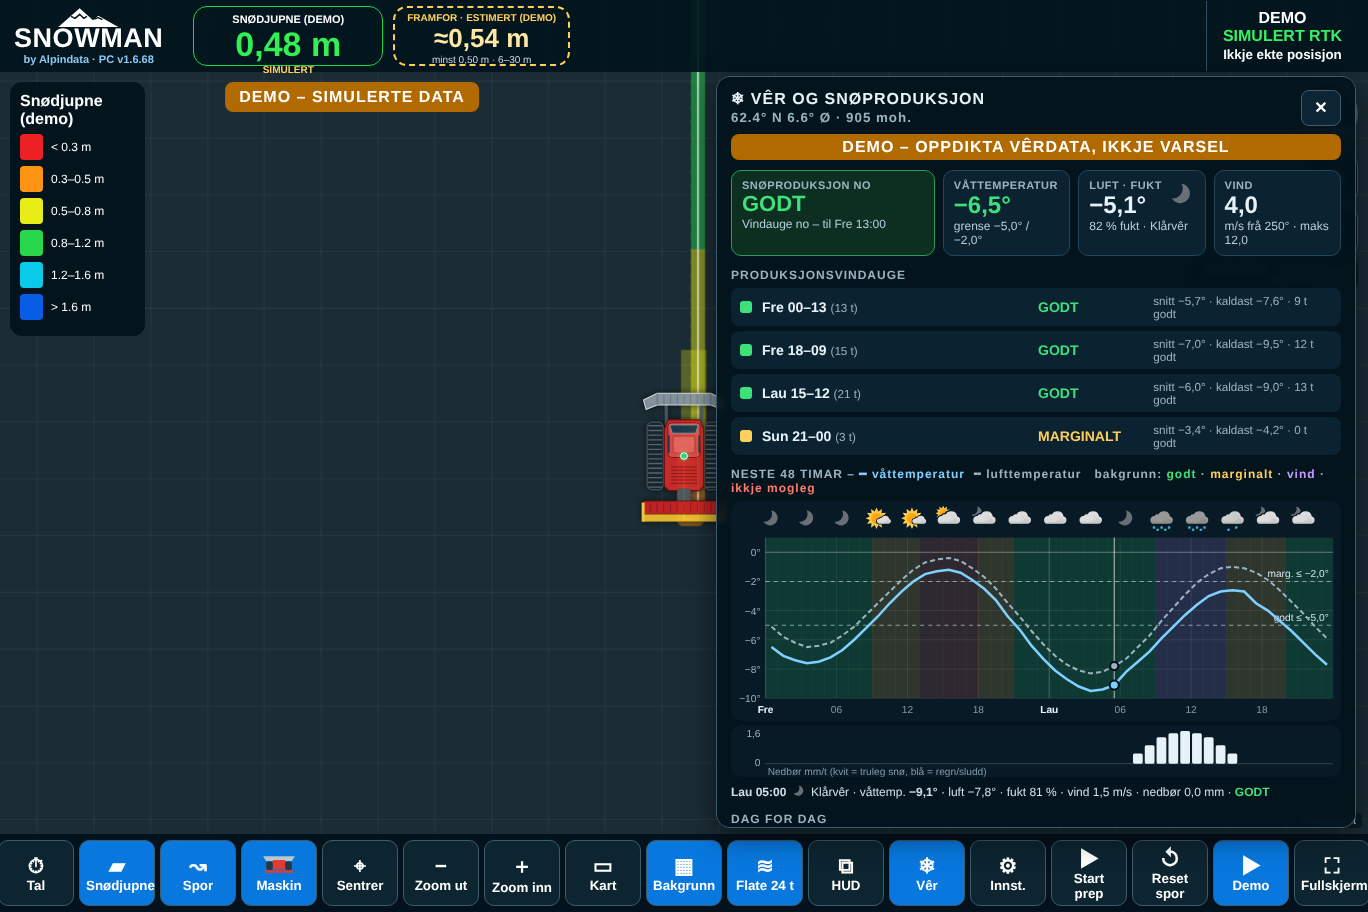
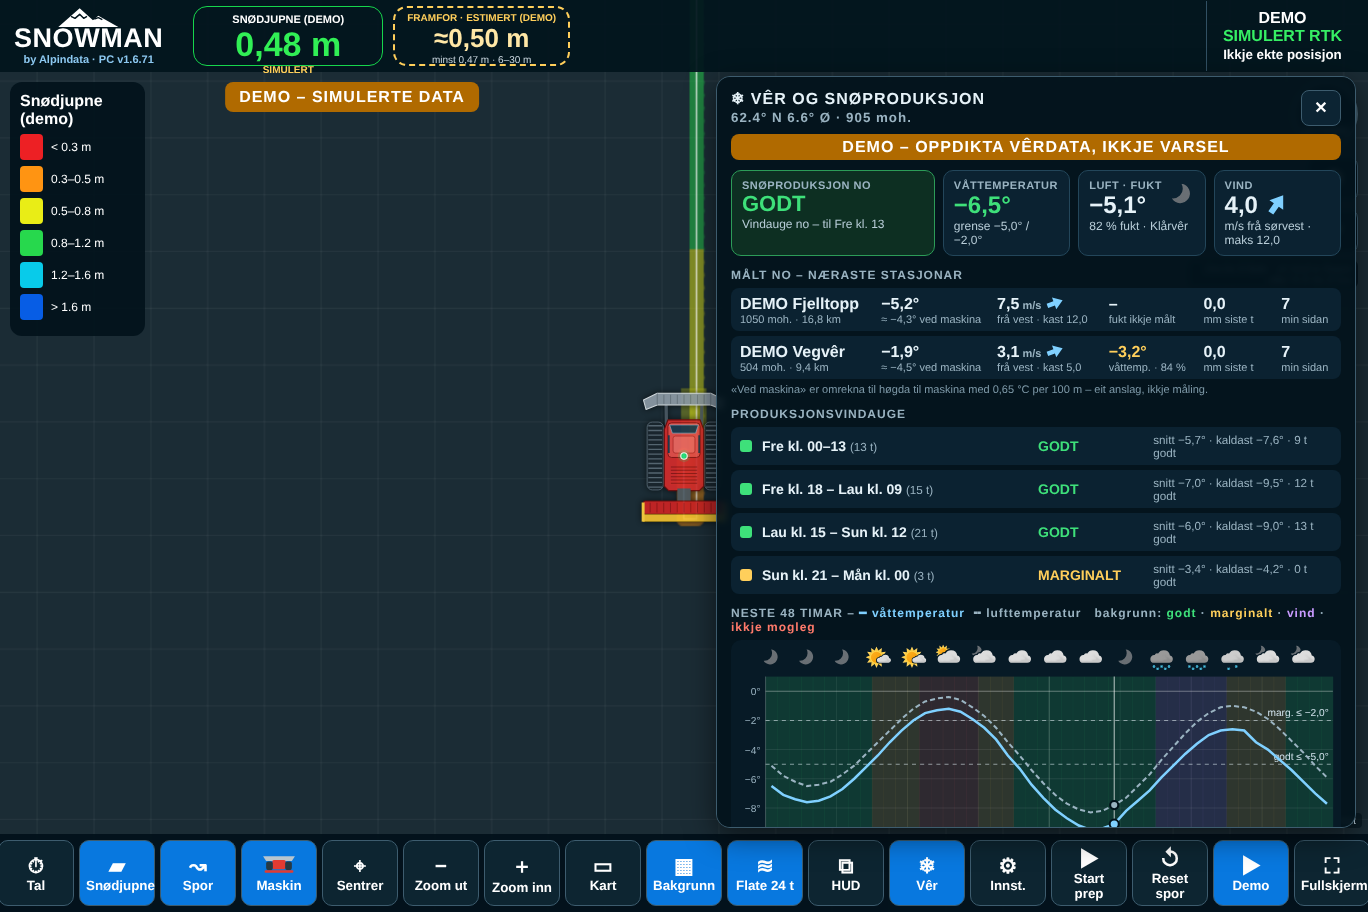
v1.6.71: Vêr – vind som himmelretning med pil, «kl.» på klokkeslett
Claude-Session: https://claude.ai/code/session_01Y9foSCuQG9UZd4gvKsU3Cj

Changed region(s): [[0.4912, 0.0921, 0.9825, 0.9211], [0.8904, 0.2149, 0.9518, 0.2763], [0.3377, 0.0307, 0.3684, 0.0614]]

diff --git a/pc/v1.6/driver.html b/pc/v1.6/driver.html
@@ -819,6 +819,17 @@
         overflow: hidden;
         text-overflow: ellipsis;
       }
+      #wx .wxU {
+        font-style: normal;
+        font-size: 11px;
+        font-weight: 700;
+        color: #9ab3c1;
+      }
+      #wx .wxPil {
+        display: inline-block;
+        vertical-align: -3px;
+        fill: #7fd0ff;
+      }
       #wx .wxObsL {
         display: flex;
         flex-direction: column;
@@ -826,7 +837,7 @@
       }
       #wx .wxObs {
         display: grid;
-        grid-template-columns: 1.7fr 1.3fr 1fr 1.1fr 0.9fr 0.7fr;
+        grid-template-columns: 1.6fr 1.3fr 1.25fr 1.05fr 0.85fr 0.6fr;
         gap: 6px;
         background: #0b2231;
         border-radius: 8px;
@@ -2163,7 +2174,7 @@
     <script src="tastatur.js"></script>
     <script>
       // Versjonsnummeret som er i bruk – éin stad, vist under logoen, i tittelen og under Innst. › Maskin
-      const APP_VERSION = "1.6.70";
+      const APP_VERSION = "1.6.71";
       document.title = "SNOWMAN PC v" + APP_VERSION;
       document.getElementById("brandVer").textContent = "PC v" + APP_VERSION;
       document.querySelectorAll(".appVer").forEach((e, i) => (e.textContent = (i ? "" : "PC v") + APP_VERSION));
@@ -6577,6 +6588,14 @@
         const lim = () => ({ good: cfg.wxGood ?? -5, marg: cfg.wxMarg ?? -2, wind: cfg.wxWind ?? 12 });
         const n1 = (v) => (v == null ? "–" : (Math.round(v * 10) / 10).toFixed(1).replace(".", ",").replace("-", "−"));
         const hh = (t) => String(new Date(t).getHours()).padStart(2, "0");
+        const kl = (t) => "kl. " + hh(t);
+        // vindretning som himmelretning (der vinden kjem frå) – lettare å lese enn grader. Pila viser kvar vinden blæs.
+        const HIM = ["nord", "nordaust", "aust", "søraust", "sør", "sørvest", "vest", "nordvest"],
+          HIMK = ["N", "NA", "A", "SA", "S", "SV", "V", "NV"];
+        const him = (d, kort) => (d == null ? "" : (kort ? HIMK : HIM)[Math.round((((d % 360) + 360) % 360) / 45) % 8]);
+        const pil = (d, px) =>
+          d == null ? "" : `<svg class="wxPil" viewBox="0 0 20 20" style="width:${px || 18}px;height:${px || 18}px;transform:rotate(${Math.round(d)}deg)"><title>Vinden blæs denne vegen</title><path d="M10 19 L3 9 H7.5 V1 H12.5 V9 H17 Z"/></svg>`;
+        const tidsrom = (a, b) => (day(a) === day(b) ? `${day(a)} ${kl(a)}–${hh(b)}` : `${day(a)} ${kl(a)} – ${day(b)} ${kl(b)}`);
         const day = (t) => DAYS[new Date(t).getDay()];
         const esc = (x) => String(x ?? "").replace(/[&<>"]/g, (c) => ({ "&": "&amp;", "<": "&lt;", ">": "&gt;", '"': "&quot;" })[c]);
         async function load() {
@@ -6627,7 +6646,7 @@
             let d = new Date(h.t),
               g = d.getHours();
             if (g % 6) return;
-            o.push(`<line x1="${X(i)}" x2="${X(i)}" y1="${pt}" y2="${Ht - pb}" stroke="#fff" stroke-opacity="${g ? 0.06 : 0.22}"/><text x="${X(i)}" y="${Ht - 7}" text-anchor="middle" font-size="10" fill="${g ? "#7f9aa9" : "#e6f2f8"}" font-weight="${g ? 400 : 800}">${g ? hh(h.t) : day(h.t)}</text>`);
+            o.push(`<line x1="${X(i)}" x2="${X(i)}" y1="${pt}" y2="${Ht - pb}" stroke="#fff" stroke-opacity="${g ? 0.06 : 0.22}"/><text x="${X(i)}" y="${Ht - 7}" text-anchor="middle" font-size="10" fill="${g ? "#7f9aa9" : "#e6f2f8"}" font-weight="${g ? 400 : 800}">${g ? kl(h.t) : day(h.t) + " " + kl(h.t)}</text>`);
           });
           // vêrsymbol kvar 3. time (MET weathericons, MIT) – same symbol_code som i varselet
           H.forEach((h, i) => {
@@ -6656,7 +6675,7 @@
         function readout(h) {
           if (!h) return "Trykk eller dra i grafen for å sjå kvar time.";
           let c = CLS[h.cls];
-          return `<b>${day(h.t)} ${hh(h.t)}:00</b>${h.sym ? ` <img src="vendor/vaersymbol/${esc(h.sym)}.svg" alt="" style="width:18px;height:18px;vertical-align:-4px"> ${esc(h.symText)}` : ""} · våttemp. <b>${n1(h.tw)}°</b> · luft ${n1(h.temp)}° · fukt ${Math.round(h.rh)} % · vind ${n1(h.wind)} m/s · nedbør ${n1(h.precip ?? h.precip6 ?? 0)} mm · <b style="color:${c[1]}">${c[0]}</b>`;
+          return `<b>${day(h.t)} ${kl(h.t)}</b>${h.sym ? ` <img src="vendor/vaersymbol/${esc(h.sym)}.svg" alt="" style="width:18px;height:18px;vertical-align:-4px"> ${esc(h.symText)}` : ""} · våttemp. <b>${n1(h.tw)}°</b> · luft ${n1(h.temp)}° · fukt ${Math.round(h.rh)} % · vind ${n1(h.wind)} m/s${h.dir != null ? " frå " + him(h.dir) + " " + pil(h.dir) : ""} · nedbør ${n1(h.precip ?? h.precip6 ?? 0)} mm · <b style="color:${c[1]}">${c[0]}</b>`;
         }
         function render() {
           let el = $("wxCard"),
@@ -6678,7 +6697,7 @@
           let win = W.length
             ? W.map((w) => {
                 let k = CLS[w.quality];
-                return `<div><i style="background:${k[1]}"></i><span><b>${day(w.start)} ${hh(w.start)}–${hh(w.end)}</b> <small>(${w.hours} t)</small></span><span style="color:${k[1]};font-weight:900">${k[2].toUpperCase()}</span><small>snitt ${n1(w.twMean)}° · kaldast ${n1(w.twMin)}° · ${w.good} t godt</small></div>`;
+                return `<div><i style="background:${k[1]}"></i><span><b>${tidsrom(w.start, w.end)}</b> <small>(${w.hours} t)</small></span><span style="color:${k[1]};font-weight:900">${k[2].toUpperCase()}</span><small>snitt ${n1(w.twMean)}° · kaldast ${n1(w.twMin)}° · ${w.good} t godt</small></div>`;
               }).join("")
             : `<div><i style="background:#ff7a6b"></i><span>Ingen produksjonsvindauge dei neste ${Math.round(R.hours.length)} timane</span><span></span><small></small></div>`;
           let days = R.days
@@ -6693,10 +6712,10 @@
             (R.demo ? `<div class="wxDemo">DEMO – OPPDIKTA VÊRDATA, IKKJE VARSEL</div>` : "") +
             (R.offline ? `<div class="wxWarn">Utan nett – viser lagra varsel, ${R.age_min} min gammalt.</div>` : "") +
             `<div class="wxNow">
-              <div class="wxBox wxStat ${h.cls}"><span>SNØPRODUKSJON NO</span><b style="color:${c[1]}">${c[0]}</b><em>${next ? (next.start <= Date.now() ? "Vindauge no – til " + day(next.end) + " " + hh(next.end) + ":00" : "Neste vindauge: " + day(next.start) + " " + hh(next.start) + ":00") : "Ingen vindauge i varselet"}</em></div>
+              <div class="wxBox wxStat ${h.cls}"><span>SNØPRODUKSJON NO</span><b style="color:${c[1]}">${c[0]}</b><em>${next ? (next.start <= Date.now() ? "Vindauge no – til " + day(next.end) + " " + kl(next.end) : "Neste vindauge: " + day(next.start) + " " + kl(next.start)) : "Ingen vindauge i varselet"}</em></div>
               <div class="wxBox"><span>VÅTTEMPERATUR</span><b class="c-${h.cls}">${n1(h.tw)}°</b><em>grense ${n1(L.good)}° / ${n1(L.marg)}°</em></div>
               <div class="wxBox wxSymBox"><span>LUFT · FUKT</span>${h.sym ? `<img src="vendor/vaersymbol/${esc(h.sym)}.svg" alt="${esc(h.symText)}" title="${esc(h.symText)}">` : ""}<b>${n1(h.temp)}°</b><em>${Math.round(h.rh)} % fukt${h.symText ? " · " + esc(h.symText) : ""}</em></div>
-              <div class="wxBox"><span>VIND</span><b>${n1(h.wind)}</b><em>m/s${h.dir != null ? " frå " + Math.round(h.dir) + "°" : ""} · maks ${n1(L.wind)}</em></div>
+              <div class="wxBox"><span>VIND</span><b>${n1(h.wind)} ${pil(h.dir, 24)}</b><em>m/s${h.dir != null ? " frå " + him(h.dir) : ""} · maks ${n1(L.wind)}</em></div>
             </div>
             ${obsHtml()}
             <h4>PRODUKSJONSVINDAUGE</h4><div class="wxWin">${win}</div>
@@ -6747,7 +6766,7 @@
               return `<div class="wxObs">
                 <span><b>${esc(x.name)}</b><small>${x.masl != null ? x.masl + " moh." : ""}${x.km != null ? " · " + n1(x.km) + " km" : ""}</small></span>
                 <span><b>${n1(x.temp)}°</b><small>${x.tempAtMachine != null ? "≈ " + n1(x.tempAtMachine) + "° ved maskina" : "luft"}</small></span>
-                <span><b>${x.wind != null ? n1(x.wind) : "–"}</b><small>m/s${x.gust != null ? " · kast " + n1(x.gust) : ""}</small></span>
+                <span><b>${x.wind != null ? n1(x.wind) + '<i class="wxU"> m/s</i>' : "–"} ${pil(x.dir)}</b><small>${x.dir != null ? "frå " + him(x.dir) : "vind"}${x.gust != null ? " · kast " + n1(x.gust) : ""}</small></span>
                 <span><b${x.tw != null ? ' class="c-' + (x.tw <= lim().good ? "godt" : x.tw <= lim().marg ? "marg" : "nei") + '"' : ""}>${x.tw != null ? n1(x.tw) + "°" : x.rh != null ? Math.round(x.rh) + " %" : "–"}</b><small>${x.tw != null ? "våttemp. · " + Math.round(x.rh) + " %" : "fukt ikkje målt"}</small></span>
                 <span><b>${x.precip != null ? n1(x.precip) : "–"}</b><small>mm siste t${x.snow != null ? " · snø " + Math.round(x.snow) + " cm" : ""}</small></span>
                 <span class="${gam ? "c-marg" : ""}"><b>${x.age_min != null ? x.age_min : "–"}</b><small>min sidan</small></span>

diff --git a/pc/v1.6/ver.py b/pc/v1.6/ver.py
@@ -105,7 +105,7 @@ def demo_hours(alt, now=None):
         wind = 4 + 3 * math.sin(k / 7.0) + (12 if 33 <= k <= 38 else 0)
         pr = round(max(0.0, 1.6 * math.sin((k - 30) / 10 * math.pi)), 1) if 30 <= k <= 40 else 0.0
         out.append({"t": t * 1000, "temp": round(temp, 1), "rh": round(min(99, rh), 0), "wind": round(wind, 1),
-                    "dir": 250, "cloud": 80 if pr else 30, "precip": pr, "precip6": None,
+                    "dir": round(215 + 70 * math.sin(k / 12.0)) % 360, "cloud": 80 if pr else 30, "precip": pr, "precip6": None,
                     "sym": _demo_sym(pr, temp, 7 <= lh < 18, k)})
     return out
 

diff --git a/pc/v1.6/snowman_pc.py b/pc/v1.6/snowman_pc.py
@@ -12,7 +12,7 @@ No third-party packages required for the core service.
 Windows COM ports are supported through a tiny PowerShell serial bridge if pyserial
 is not installed; installing pyserial is recommended for reliable binary RTCM.
 """
-VERSION="1.6.70"   # versjonen som er i bruk (same som APP_VERSION i driver.html)
+VERSION="1.6.71"   # versjonen som er i bruk (same som APP_VERSION i driver.html)
 import sys
 import argparse, base64, json, math, os, re, socket, threading, time, http.server, urllib.parse, urllib.request
 from pathlib import Path

diff --git a/ENDRINGSLOGG.md b/ENDRINGSLOGG.md
@@ -9,6 +9,16 @@ Merke: **Nytt** · **Endra** · **Retta** · **Fjerna** · **Avgjerd** (val som 
 
 ## 2026-10-09
 
+### PC-prototype v1.6.71 – Vêr: vind som himmelretning, «kl.» på klokkeslett
+- **Endra:** vindretning blir vist som **himmelretning** (nord, nordaust, aust, søraust, sør, sørvest, vest, nordvest –
+  der vinden kjem frå) med ei **pil** som viser kvar vinden blæs, i staden for grader. Gjeld vindboksen, «Målt no» og
+  avlesinga i grafen.
+- **Endra:** klokkeslett står med **«kl.»**: tidsaksen i 48-timarsgrafen (kl. 06, kl. 12, kl. 18, og «Lau kl. 00» ved
+  midnatt), produksjonsvindauge, «vindauge no / neste vindauge» og avlesinga. Vindauge over midnatt får begge dagane,
+  t.d. «Fre kl. 18 – Lau kl. 09» (før: «Fre 18–09»).
+- **Kvifor:** eigaren: grader er vanskeleg å tolke for ein maskinførar, og grafen mangla klokkeslett.
+- **Testa:** med `simuler-leica.py` (isolert kopi) og demo (varierande vindretning). Ingen JavaScript-feil.
+
 ### PC-prototype v1.6.70 – «MÅLT NO» i Vêr: målingar frå næraste vêrstasjonar (MET Frost)
 - **Nytt:** `frost.py` hentar siste målingar frå dei næraste stasjonane (Frost «nearest» frå GPS-posisjonen, maks 3 med
   ferske data): temperatur, vind og kast, luftfukt, nedbør siste time og snødjupne der stasjonen måler det. Nytt
